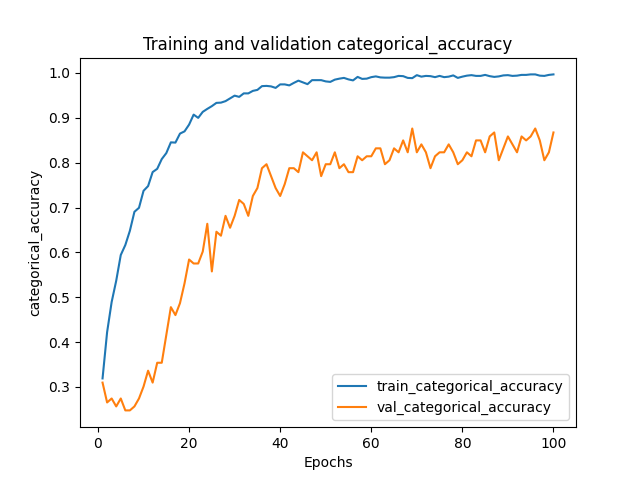
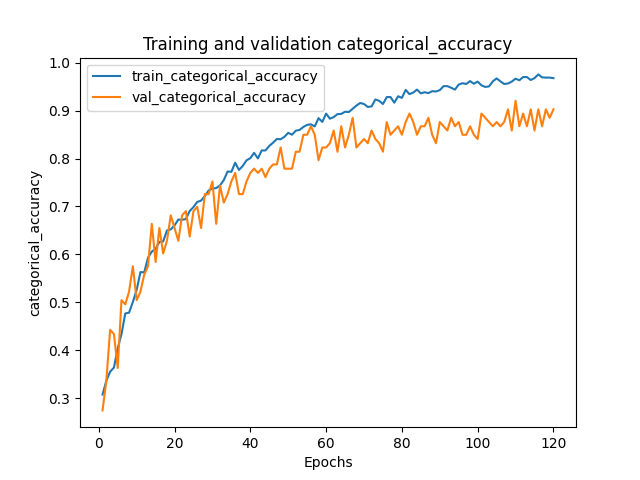
Minor.

diff --git a/train.py b/train.py
@@ -1,5 +1,5 @@
 import tensorflow as tf
-from tensorflow.keras.applications.inception_resnet_v2 import InceptionResNetV2
+from tensorflow.keras.applications.nasnet import NASNetLarge
 from tensorflow.keras.layers import Dense, GlobalAveragePooling2D
 from tensorflow.keras.models import Model
 from tensorflow.keras.optimizers import SGD, Adam
@@ -54,7 +54,7 @@ def main():
     # os.environ["CUDA_VISIBLE_DEVICES"] = "0"
     train_data_gen = get_data_gen()
 
-    base_model = InceptionResNetV2(weights='imagenet', include_top=False)
+    base_model = NASNetLarge(weights='imagenet', include_top=False)
 
     # add a global spatial average pooling layer
     x = base_model.output
@@ -74,11 +74,11 @@ def main():
                   metrics=[tf.keras.metrics.CategoricalAccuracy()])
 
     history = model.fit(train_data_gen.flow_from_directory("formatted_data", subset="training"),
-                        epochs=40,
+                        epochs=50,
                         validation_data=train_data_gen.flow_from_directory("formatted_data",
                                                                            subset="validation"))
 
-    plot_metric(history, "categorical_accuracy", "dev/pre_train.png")
+    plot_metric(history, "categorical_accuracy", "dev/nas_pre_train.png")
 
     # at this point, the top layers are well trained and we can start fine-tuning
     # convolutional layers from inception V3. We will freeze the bottom N layers
@@ -91,17 +91,17 @@ def main():
     # the first 249 layers and unfreeze the rest:
     for layer in model.layers:
         layer.trainable = True
-    model.compile(optimizer=SGD(learning_rate=0.0001, momentum=0.9), loss=CategoricalCrossentropy(label_smoothing=0.1),
+    model.compile(optimizer=SGD(learning_rate=1e-4, momentum=0.9), loss=CategoricalCrossentropy(label_smoothing=0.1),
                   metrics=[tf.keras.metrics.CategoricalAccuracy()])
 
     history = model.fit(train_data_gen.flow_from_directory("formatted_data", subset="training"),
-                        epochs=100,
+                        epochs=150,
                         validation_data=train_data_gen.flow_from_directory("formatted_data",
                                                                            subset="validation"))
 
-    plot_metric(history, "categorical_accuracy", "dev/fine_tune.png")
+    plot_metric(history, "categorical_accuracy", "dev/nas_fine_tune.png")
 
-    model.save("model/river_classifier_model_InceptionResNetV2_smoothing.tf")
+    model.save("model/river_classifier_model_nas.tf")
 
 
 if __name__ == "__main__":

diff --git a/eval.py b/eval.py
@@ -8,7 +8,7 @@ import csv
 
 def main():
     # Let's see the accuracy on validation set.
-    model = load_model("model/river_classifier_model_NasNetLarge.tf")
+    model = load_model("model/river_classifier_model_InceptionResNetV2_smoothing.tf")
     tf_validation_dataset = tf.keras.preprocessing.image_dataset_from_directory(
         "formatted_data",
         labels="inferred",
@@ -41,7 +41,7 @@ def main():
             print(i + ": " + str(predict.numpy()))
             dc[i] = str(predict.numpy())
 
-    with open('dev/test_data_nas.csv', 'w', newline='') as csv_file:
+    with open('dev/test_data_inception.csv', 'w', newline='') as csv_file:
         csv_writer = csv.writer(csv_file)
         csv_writer.writerow(['image_name', 'label'])
         for k in dc:
